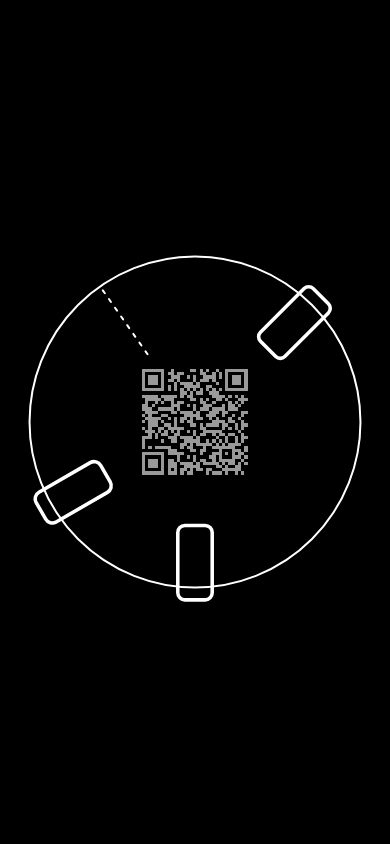
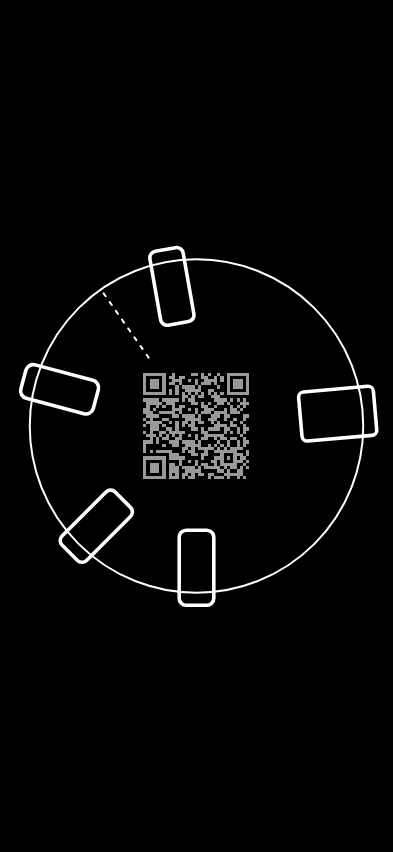
Show 5 real devices in the screenshot; expand README; add attribution
Replace the two placeholder simulated peers with four real, current
phone/tablet models (plus our own capture viewport as a fifth), each
with distinct sizes and irregular bearings. Add Server and Client
sections to the README describing the WebSocket relay and the p5.js
compass sketch, and credit the idea's co-development with Edward
Jenkins (https://edjenkins.co.uk).

diff --git a/.github/workflows/screenshot.js b/.github/workflows/screenshot.js
@@ -6,19 +6,25 @@
 // The page's own natural first load always encodes a real random session in the QR (by design,
 // so a scan can actually join) - we regenerate the QR afterwards from the bare page URL (no
 // ?session=...) so the screenshot doesn't show a joinable session value. We also tilt our own
-// compass bearing so the dotted north line isn't drawn straight up, and inject two simulated
-// peers - different sizes, irregular bearings - so the ring shows phones around a table.
+// compass bearing so the dotted north line isn't drawn straight up, and inject four simulated
+// peers - real, current phone/tablet models, different sizes, irregular bearings - so the ring
+// shows a mixed group of devices around a table.
 const { chromium } = require('playwright');
 const fs = require('fs');
 const path = require('path');
 
 const DEMO_URL = process.argv[2] || 'https://davidchatting.com/pointsnorth/';
 const OUT_PATH = path.join(__dirname, '..', '..', 'screenshot.png'); // repo root, two levels up from .github/workflows/
-const PHONE_VIEWPORT = { width: 390, height: 844 }; // iPhone-ish portrait ratio
 const OWN_BEARING = 35; // degrees - so the dotted north line isn't drawn straight up
+
+// approximate CSS portrait viewport sizes (px) for the five devices shown in the group.
+// our own capture viewport is one of them (iPhone 15); the rest are simulated peers.
+const PHONE_VIEWPORT = { width: 393, height: 852 }; // iPhone 15
 const PEERS = [
-  { clientId: 'demo-peer-1', bearing: 95, width: 360, height: 780 },
-  { clientId: 'demo-peer-2', bearing: 260, width: 430, height: 932 },
+  { clientId: 'iphone-15-pro-max', bearing: 80, width: 430, height: 932 },  // iPhone 15 Pro Max
+  { clientId: 'galaxy-s24', bearing: 140, width: 360, height: 780 },        // Samsung Galaxy S24
+  { clientId: 'pixel-8-pro', bearing: 205, width: 412, height: 915 },       // Google Pixel 8 Pro
+  { clientId: 'ipad-mini', bearing: 300, width: 744, height: 1133 },        // iPad mini (6th gen)
 ];
 
 (async () => {
@@ -47,7 +53,7 @@ const PEERS = [
     });
   }, OWN_BEARING);
 
-  // simulate two other phones around the table - different sizes, irregular spacing
+  // simulate four other phones/tablets around the table - different sizes, irregular spacing
   await page.evaluate((peers) => {
     for (const peer of peers) upsertDevice(peer);
   }, PEERS);

diff --git a/README.md b/README.md
@@ -7,7 +7,8 @@
   <a href="http://davidchatting.com/pointsnorth/"><img src="screenshot.png" alt="Screenshot of the compass ring and join QR code"></a>
 </p>
 
-An experimental platform for multiplayer games around round tables.
+An experimental platform for multiplayer games around round tables, based on an idea
+co-developed with [Edward Jenkins](https://edjenkins.co.uk).
 
 ## Run
 
@@ -17,6 +18,41 @@ node server.js
 ```
 
 Server runs at `http://localhost:3000`.
+
+## Server
+
+`server.js` is a minimal Express + [`ws`](https://github.com/websockets/ws) WebSocket relay — it
+has no game logic of its own. Clients connect to `wss://<host>/pubgames` and join a *session* by
+sending a `client_info` message containing a `sessionId` (the value encoded in the join QR code).
+The server keeps a `Map` of `sessionId -> Set<WebSocket>` and relays JSON messages between clients
+in the same session:
+
+- a message with a `targetClientId` is delivered to that one client
+- otherwise it's broadcast to every other client in the session
+
+When a client disconnects, the rest of its session receive a `disconnect` message. There's no
+persistence and no HTTP API beyond serving `public/` as static assets — each game built on top of
+this defines its own message types and client-side behaviour.
+
+## Client
+
+`public/` is a single-page [p5.js](https://p5js.org) sketch (`script.js`) that draws a compass
+ring: your own device sits at the centre, and every other device in the session appears as a
+rectangle scaled to their screen size and rotated to their real-world compass bearing (via
+`deviceorientation`) — so a group of phones and tablets round a table shows up as a matching ring
+of shapes pointing the right way. On load it generates (or reads from the URL) a `sessionId` and
+displays it as a QR code; scanning it opens the same session URL on another device, which then
+appears as a new shape in the ring.
+
+Interactions so far:
+
+- **Tap** a device's shape to send it a `message`, flashing its screen
+- **Swipe** left/right to message whichever device is immediately to your left/right around the ring
+- A Screen Wake Lock keeps the display on; an "Enable Compass" button requests iOS's motion-sensor
+  permission and hides itself once granted
+
+This is meant as a reusable base — session/client plumbing, the bearing-ordered device list, and
+the WebSocket relay — for building actual round-table games on top of.
 
 ## License
 
